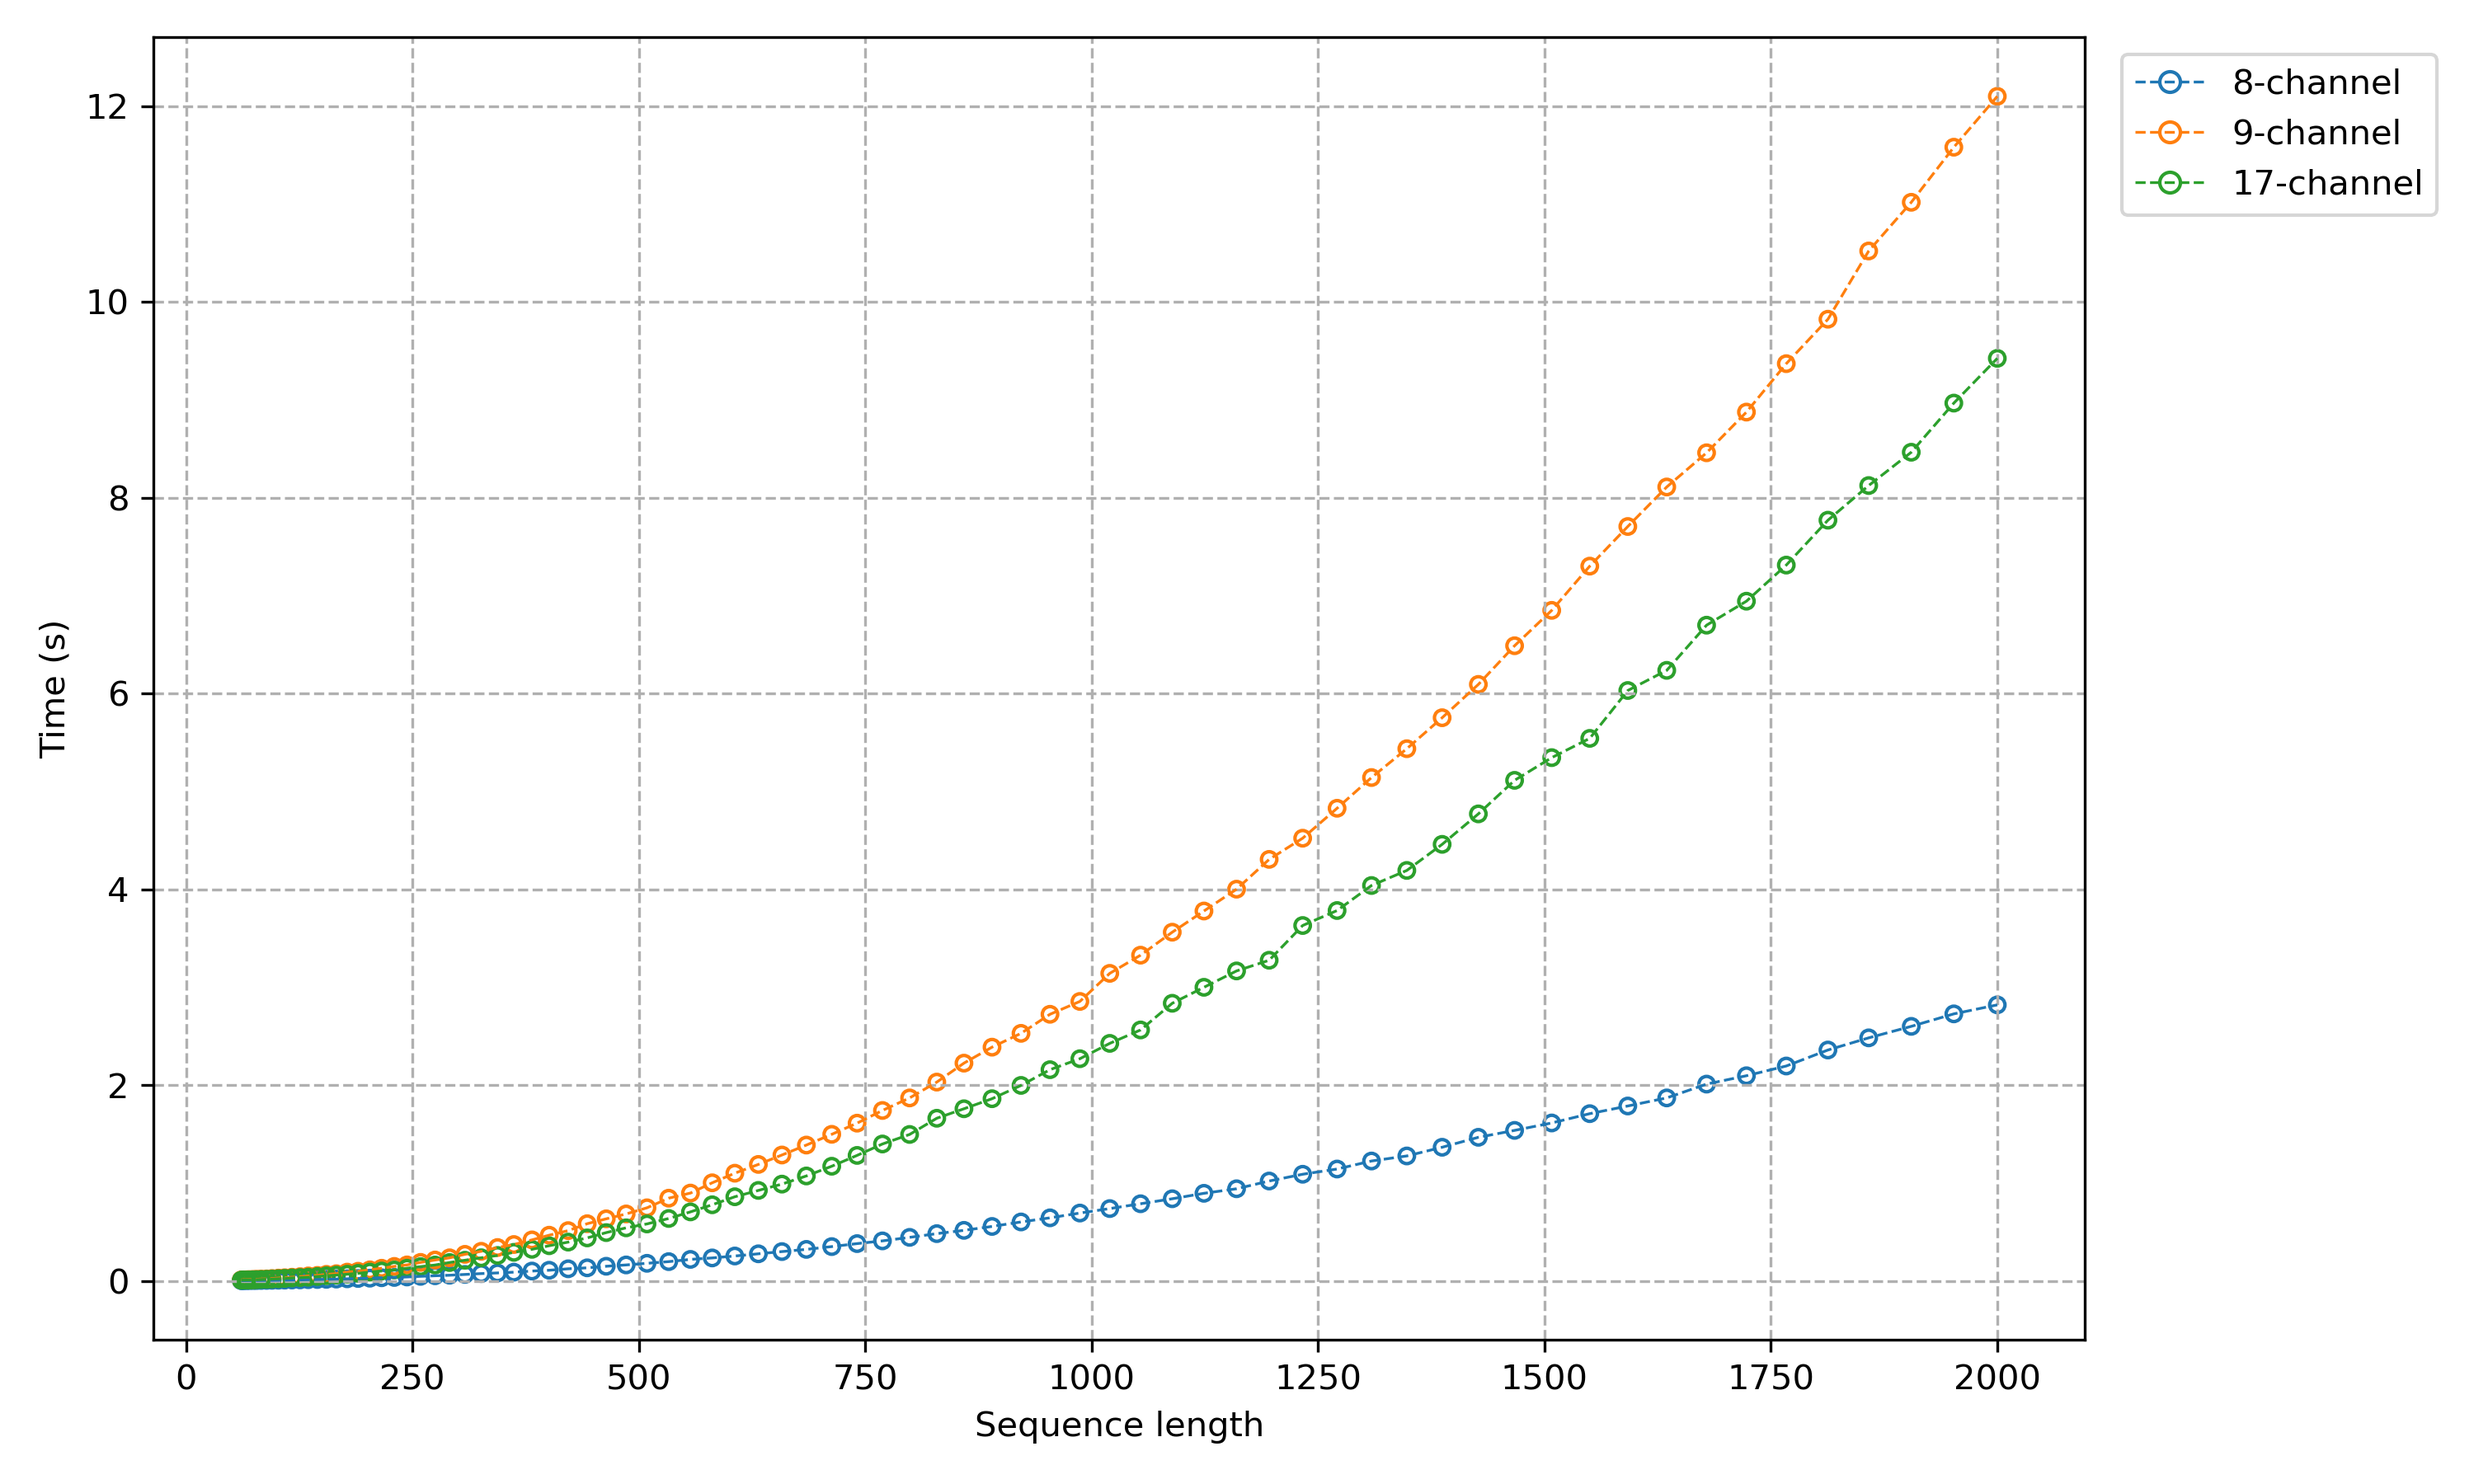
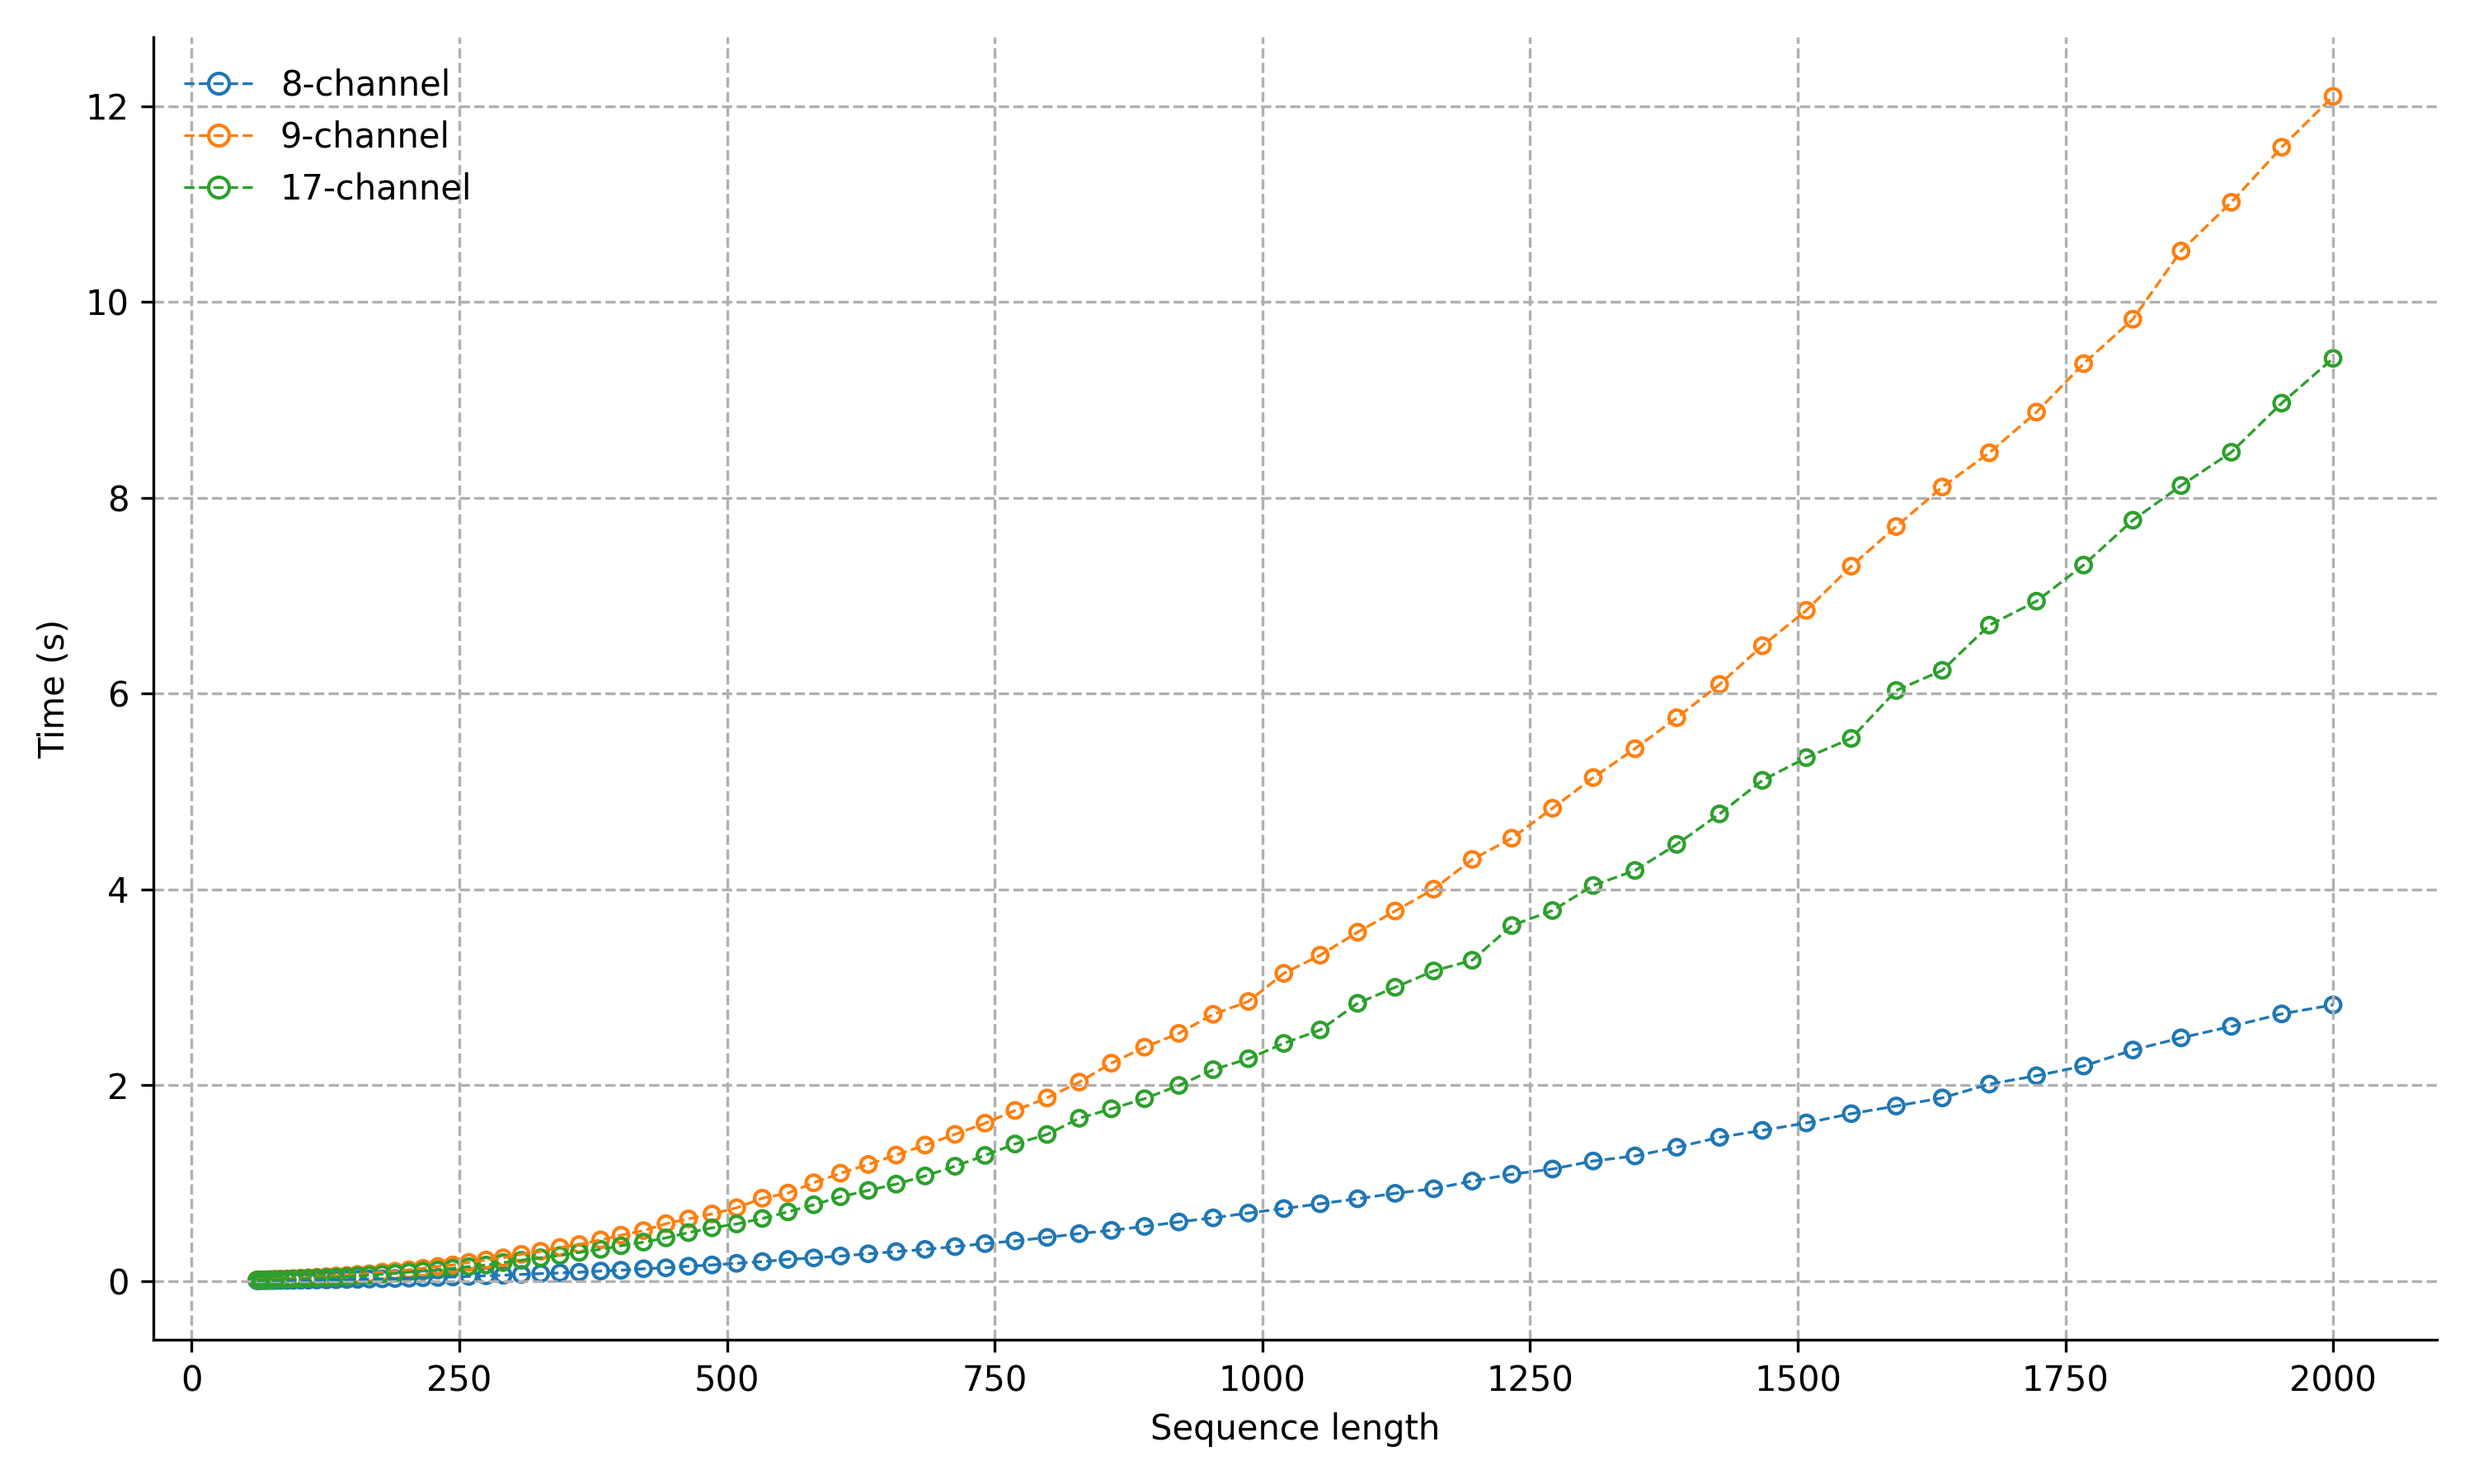
Updated plots

diff --git a/scripts/time_matrix_conversion.py b/scripts/time_matrix_conversion.py
@@ -81,10 +81,13 @@ def plot_timedict(timedict, lengths, outputfile = None):
         handles.append(Line2D([0], [0], color = colors[i], linestyle = '--', linewidth = 0.8, marker = 'o', markerfacecolor = 'none', markeredgecolor = colors[i], label = func))
 
     
-    ax.legend(handles = handles, loc = 'upper left', bbox_to_anchor = (1.01, 1))
+    ax.legend(handles = handles, loc = 'upper left', frameon = False)
     ax.grid(linestyle = '--')
     ax.set_xlabel("Sequence length")
     ax.set_ylabel("Time (s)")
+
+    plt.gca().spines['top'].set_visible(False)
+    plt.gca().spines['right'].set_visible(False)
 
     plt.tight_layout()
     

diff --git a/scripts/time_postprocessing.py b/scripts/time_postprocessing.py
@@ -85,10 +85,13 @@ def plot_timedict(timedict, lengths, outputfile = None):
         handles.append(Line2D([0], [0], color = colors[i], linestyle = '--', linewidth = 0.8, marker = 'o', markerfacecolor = 'none', markeredgecolor = colors[i], label = func))
 
     
-    ax.legend(handles = handles, loc = 'upper left', bbox_to_anchor = (1.01, 1))
+    ax.legend(handles = handles, loc = 'upper left', frameon = False)
     ax.grid(linestyle = '--')
     ax.set_xlabel("Sequence length")
     ax.set_ylabel("Time (s)")
+
+    plt.gca().spines['right'].set_visible(False)
+    plt.gca().spines['top'].set_visible(False)
 
     plt.tight_layout()
     
